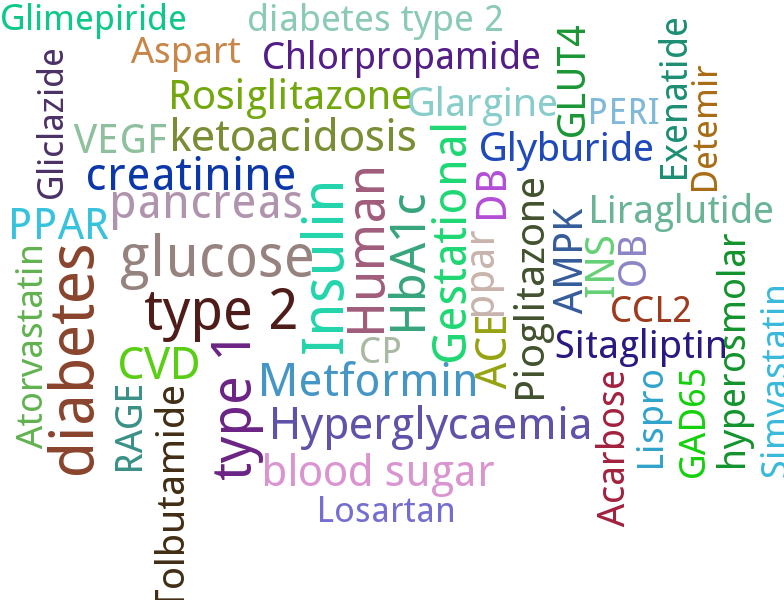
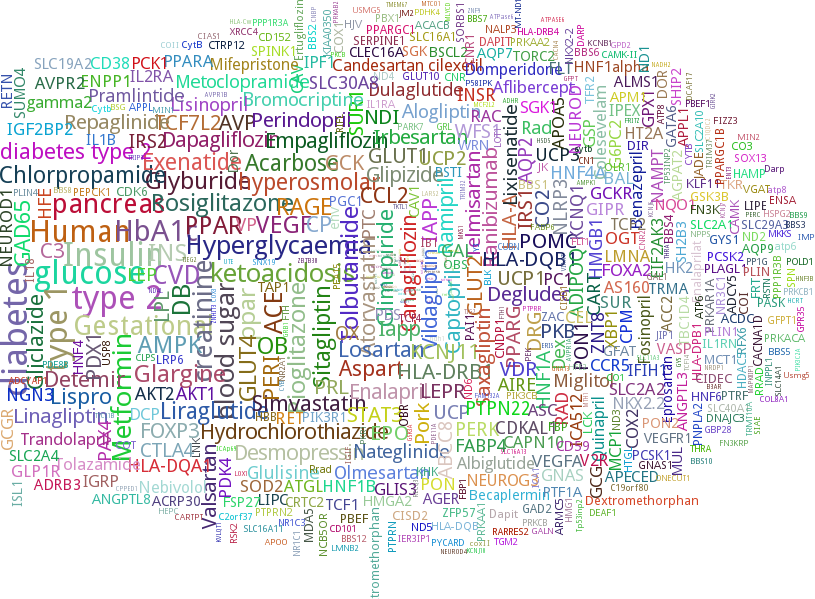
* bug of RESTful.client

diff --git a/plots/word_cloud/create_word_cloud.py b/plots/word_cloud/create_word_cloud.py
@@ -88,28 +88,28 @@ if __name__=="__main__":
 
 		nameCounter += 1 
 		output_file = output_file[:-4] + '_' + str(nameCounter) + output_file[-4:]
-		create_tag_image(mtags, output_file,size=(900, 600),background=(255, 255, 255, 255), fontname='Cuprum')
+		create_tag_image(mtags, output_file,size=(1800, 1300),background=(255, 255, 255, 255), fontname='Cuprum')
 		
 		nameCounter += 1 
-		output_file = output_file[:-4] + '_' + str(nameCounter) + output_file[-4:]
-		create_tag_image(mtags, output_file,size=(900, 600),background=(255, 255, 255, 255), fontname='Inconsolata')
+		output_file = output_file.replace(str(nameCounter-1),str(nameCounter))
+		create_tag_image(mtags, output_file,size=(1800, 1300),background=(255, 255, 255, 255), fontname='Inconsolata')
 		
 		nameCounter += 1 
-		output_file = output_file[:-4] + '_' + str(nameCounter) + output_file[-4:]
-		create_tag_image(mtags, output_file,size=(900, 600),background=(255, 255, 255, 255), fontname='Lobster')
+		output_file = output_file.replace(str(nameCounter-1),str(nameCounter))
+		create_tag_image(mtags, output_file,size=(1800, 1300),background=(255, 255, 255, 255), fontname='Lobster')
 		
 		
 		nameCounter += 1 
-		output_file = output_file[:-4] + '_' + str(nameCounter) + output_file[-4:]
-		create_tag_image(mtags, output_file,size=(900, 600),background=(255, 255, 255, 255), fontname='Neucha')
+		output_file = output_file.replace(str(nameCounter-1),str(nameCounter))
+		create_tag_image(mtags, output_file,size=(1800, 1300),background=(255, 255, 255, 255), fontname='Neucha')
 		
 		nameCounter += 1 
-		output_file = output_file[:-4] + '_' + str(nameCounter) + output_file[-4:]
-		create_tag_image(mtags, output_file,size=(900, 600),background=(255, 255, 255, 255), fontname='Neuton')
+		output_file = output_file.replace(str(nameCounter-1),str(nameCounter))
+		create_tag_image(mtags, output_file,size=(1800, 1300),background=(255, 255, 255, 255), fontname='Neuton')
 		
 		nameCounter += 1 
-		output_file = output_file[:-4] + '_' + str(nameCounter) + output_file[-4:]
-		create_tag_image(mtags, output_file,size=(900, 600),background=(255, 255, 255, 255), fontname='Philosopher')
+		output_file = output_file.replace(str(nameCounter-1),str(nameCounter))
+		create_tag_image(mtags, output_file,size=(1800, 1300),background=(255, 255, 255, 255), fontname='Philosopher')
 		
 		infile.close()
 

diff --git a/RESTfulAPI/RESTful.client.get.py b/RESTfulAPI/RESTful.client.get.py
@@ -110,7 +110,7 @@ fh = open(inputFile)
 outPutFH = open(outPutFile, 'w')
 
 downloadProgress = ProgressBar(612508, fmt=ProgressBar.FULL)
-skipLines = 4356
+skipLines = 46671
 
 for pmid in fh:
 	#Submit
@@ -118,8 +118,9 @@ for pmid in fh:
 		next(fh)
 		downloadProgress.current += 1
 		downloadProgress()
+		continue
 
-	pmid=pmid.rstrip('\r\n')
+	pmid = pmid.rstrip('\r\n')
 	url_Submit = "https://www.ncbi.nlm.nih.gov/CBBresearch/Lu/Demo/RESTful/tmTool.cgi/" + bioconcept + "/" + pmid + "/" + format + "/"
 	try:
 		urllib_result = urllib2.urlopen(url_Submit)
